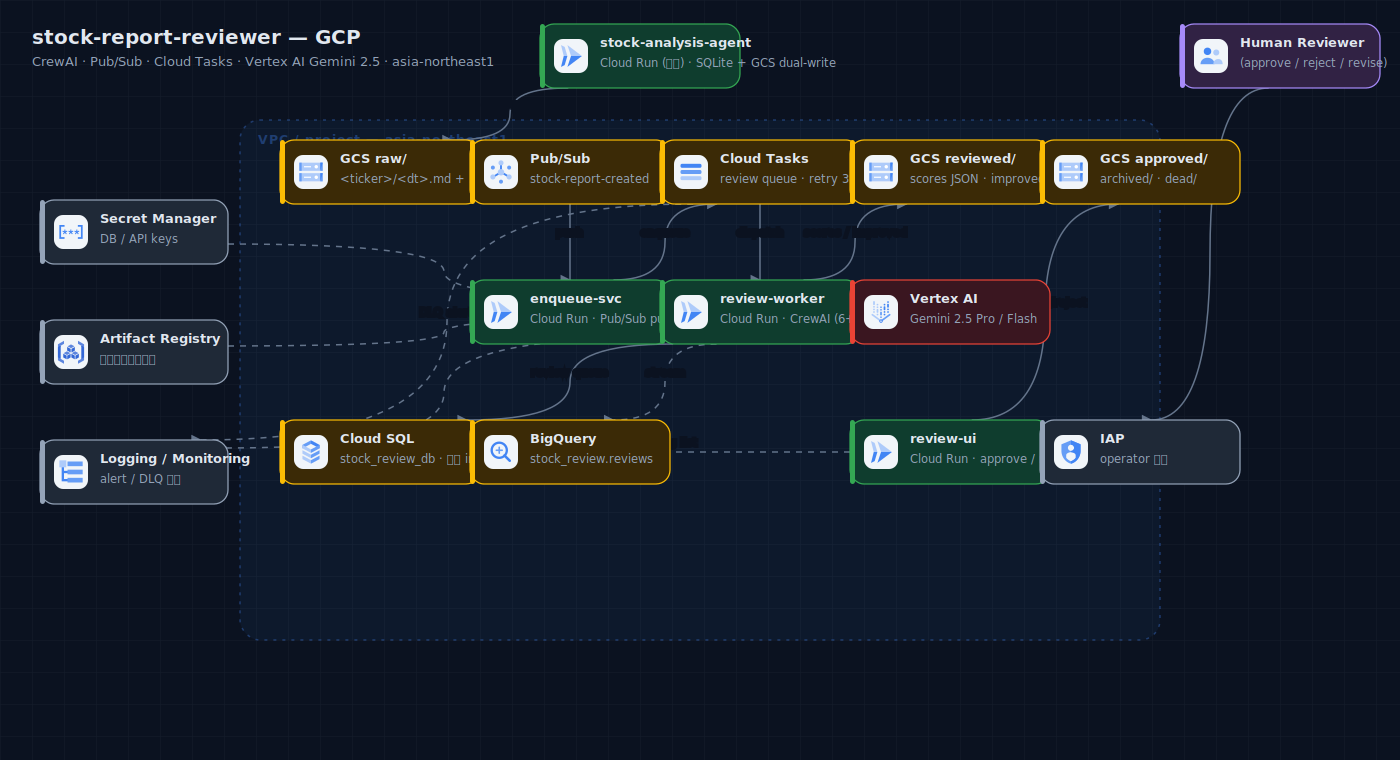
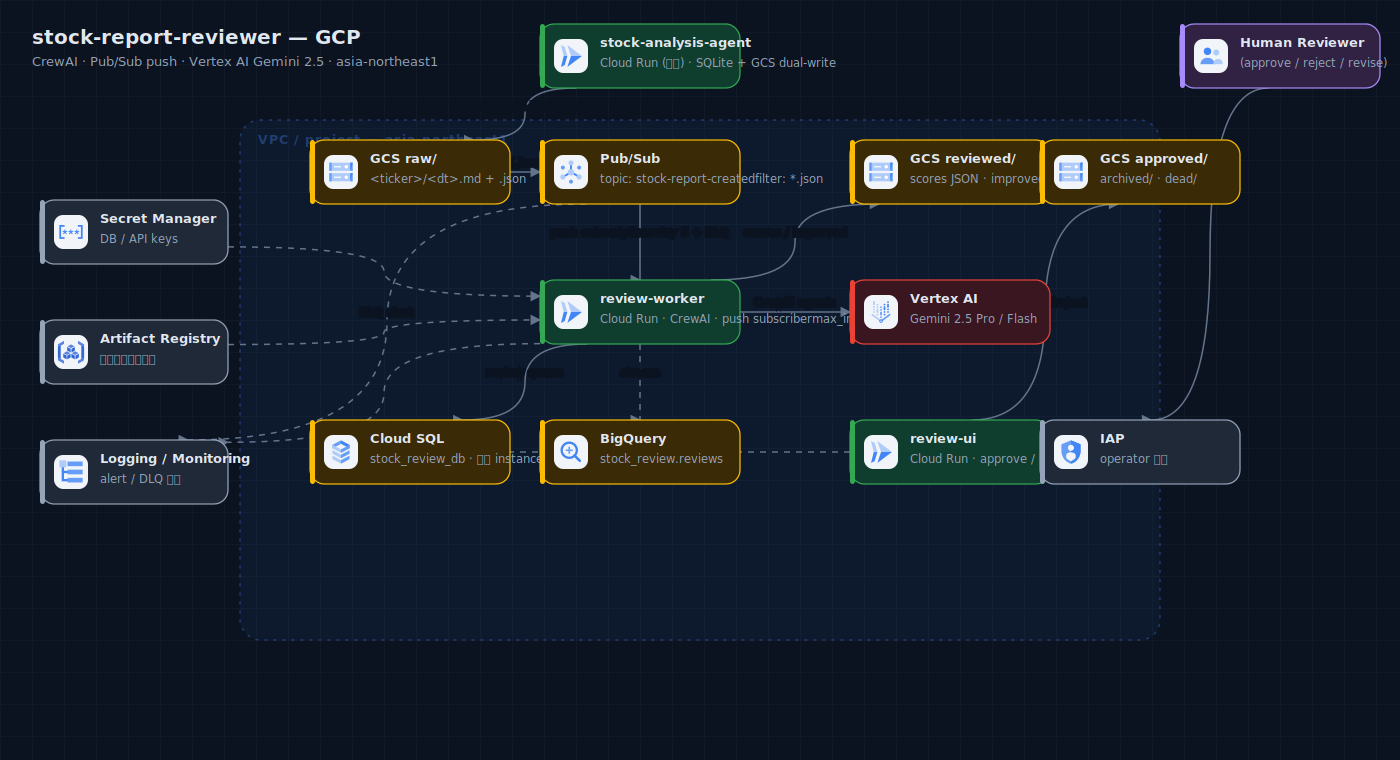
docs(0013): トリガ方式を案 B (Pub/Sub push 直接) に変更、案 A は併記
PROPOSAL-0013 のトリガ方式を Cloud Tasks ベース (案 A) から
Pub/Sub push subscription 直接 (案 B) に変更。両案を §3.6.1 に併記、
案 B 採用の判断根拠と、将来 rate limit 要件が出た場合の案 A への
切替条件を明記。

変更点:
- §1 Summary: Cloud Tasks → Pub/Sub push に
- §3.5 アーキテクチャ図 (ASCII): enqueue-svc / Cloud Tasks を削除、
  Pub/Sub push subscription + .json filter を反映
- §3.6.1 (新規): トリガ方式の選定セクションを追加
  - 案 A: GCS → Pub/Sub → Cloud Tasks (marker file)
  - 案 B: GCS → Pub/Sub push subscription (採用)
  - Rate limit は Phase 2 で後追い検討 (判断指標: llm_call.error_rate,
    review_lag)
- §3.7 Notes: idempotency と二重通知レース対策の説明を追加
- §3.8 Risks: Cloud Tasks DLQ → Pub/Sub DLQ topic
- §4.1 ディレクトリ: terraform/cloud_tasks.tf を削除
- §4.3 API: /internal/review の caller を Pub/Sub push に
- §4.5 Test Plan: E2E test も Pub/Sub 経路に
- §4.6 Migration: Cloud Tasks 言及を削除
- §5.3 Dependencies: Cloud Tasks を統合

GCP 構成図 (docs/diagrams/systems/stock-report-reviewer/) も同期:
- spec.gcp.mjs から enqueue / tasks ノードを削除
- pubsub → worker を push subscription 直接接続に
- gcp.svg / gcp.png / .tsx を再生成

diff --git a/docs/diagrams/systems/stock-report-reviewer/StockReportReviewerDiagram.tsx b/docs/diagrams/systems/stock-report-reviewer/StockReportReviewerDiagram.tsx
@@ -62,21 +62,22 @@ const VARIANTS = {
   <rect x="3" y="5" width="18" height="3.4" rx="1.2" fill="#4285f4"/>
   <rect x="3" y="10.3" width="18" height="3.4" rx="1.2" fill="#669df6"/>
   <rect x="3" y="15.6" width="18" height="3.4" rx="1.2" fill="#aecbfa"/>
-</symbol></defs><rect width="1400" height="760" fill="#0b1220"/><rect width="1400" height="760" fill="url(#grid)"/><text x="32" y="44" fill="#e2e8f0" font-size="20" font-weight="750">stock-report-reviewer — GCP</text><text x="32" y="66" fill="#94a3b8" font-size="13">CrewAI · Pub/Sub · Cloud Tasks · Vertex AI Gemini 2.5 · asia-northeast1</text><g><rect x="240" y="120" width="920" height="520" rx="20" fill="rgba(66,133,244,0.06)" stroke="rgba(66,133,244,0.35)" stroke-width="1.5" stroke-dasharray="3 6"/><text x="258" y="144" fill="rgba(66,133,244,0.35)" font-size="12.5" font-weight="700" letter-spacing="1">VPC / project — asia-northeast1</text></g><path d="M 568.2758620689656 88 Q 510 88 510 114 T 451.7241379310345 140" fill="none" stroke="#64748b" stroke-width="1.5" marker-end="url(#arrow)"/><text x="510" y="108" fill="#94a3b8" font-size="11" text-anchor="middle" paint-order="stroke" stroke="#0b1220" stroke-width="4">dual-write</text><path d="M 480 172 Q 475 172 475 172 T 470 172" fill="none" stroke="#64748b" stroke-width="1.5" marker-end="url(#arrow)"/><text x="475" y="166" fill="#94a3b8" font-size="11" text-anchor="middle" paint-order="stroke" stroke="#0b1220" stroke-width="4">notify</text><path d="M 570 204 Q 570 204 570 242 T 570 280" fill="none" stroke="#64748b" stroke-width="1.5" marker-end="url(#arrow)"/><text x="570" y="236" fill="#94a3b8" font-size="11" text-anchor="middle" paint-order="stroke" stroke="#0b1220" stroke-width="4">push</text><path d="M 613.4285714285714 280 Q 665 280 665 242 T 716.5714285714286 204" fill="none" stroke="#64748b" stroke-width="1.5" marker-end="url(#arrow)"/><text x="665" y="236" fill="#94a3b8" font-size="11" text-anchor="middle" paint-order="stroke" stroke="#0b1220" stroke-width="4">enqueue</text><path d="M 760 204 Q 760 204 760 242 T 760 280" fill="none" stroke="#64748b" stroke-width="1.5" marker-end="url(#arrow)"/><text x="760" y="236" fill="#94a3b8" font-size="11" text-anchor="middle" paint-order="stroke" stroke="#0b1220" stroke-width="4">dispatch</text><path d="M 860 312 Q 855 312 855 312 T 850 312" fill="none" stroke="#64748b" stroke-width="1.5" marker-end="url(#arrow)"/><text x="855" y="306" fill="#94a3b8" font-size="11" text-anchor="middle" paint-order="stroke" stroke="#0b1220" stroke-width="4">CrewAI agents</text><path d="M 803.4285714285714 280 Q 855 280 855 242 T 906.5714285714286 204" fill="none" stroke="#64748b" stroke-width="1.5" marker-end="url(#arrow)"/><text x="855" y="236" fill="#94a3b8" font-size="11" text-anchor="middle" paint-order="stroke" stroke="#0b1220" stroke-width="4">scores / improved</text><path d="M 673.1428571428571 344 Q 570 344 570 382 T 466.8571428571429 420" fill="none" stroke="#64748b" stroke-width="1.5" marker-end="url(#arrow)"/><text x="570" y="376" fill="#94a3b8" font-size="11" text-anchor="middle" paint-order="stroke" stroke="#0b1220" stroke-width="4">review queue</text><path d="M 716.5714285714286 344 Q 665 344 665 382 T 613.4285714285714 420" fill="none" stroke="#64748b" stroke-width="1.5" stroke-dasharray="6 6" marker-end="url(#arrow)"/><text x="665" y="376" fill="#94a3b8" font-size="11" text-anchor="middle" paint-order="stroke" stroke="#0b1220" stroke-width="4">stream</text><path d="M 1268.6868686868686 88 Q 1210 88 1210 254 T 1151.3131313131314 420" fill="none" stroke="#64748b" stroke-width="1.5" marker-end="url(#arrow)"/><path d="M 1040 452 Q 1045 452 1045 452 T 1050 452" fill="none" stroke="#64748b" stroke-width="1.5" marker-end="url(#arrow)"/><text x="1045" y="446" fill="#94a3b8" font-size="11" text-anchor="middle" paint-order="stroke" stroke="#0b1220" stroke-width="4">auth</text><path d="M 850 452 Q 665 452 665 452 T 480 452" fill="none" stroke="#64748b" stroke-width="1.5" stroke-dasharray="6 6" marker-end="url(#arrow)"/><text x="665" y="446" fill="#94a3b8" font-size="11" text-anchor="middle" paint-order="stroke" stroke="#0b1220" stroke-width="4">pending list</text><path d="M 971.7142857142857 420 Q 1045 420 1045 312 T 1118.2857142857142 204" fill="none" stroke="#64748b" stroke-width="1.5" marker-end="url(#arrow)"/><text x="1045" y="306" fill="#94a3b8" font-size="11" text-anchor="middle" paint-order="stroke" stroke="#0b1220" stroke-width="4">approve/reject</text><path d="M 228 244.01277955271564 Q 444 244.01277955271564 444 271.61661341853033 T 660 299.220447284345" fill="none" stroke="#64748b" stroke-width="1.5" stroke-dasharray="6 6" marker-end="url(#arrow)"/><path d="M 228 345.9936102236422 Q 444 345.9936102236422 444 332.19169329073486 T 660 318.3897763578275" fill="none" stroke="#64748b" stroke-width="1.5" stroke-dasharray="6 6" marker-end="url(#arrow)"/><path d="M 660 337.5591054313099 Q 444 337.5591054313099 444 392.76677316293933 T 228 447.9744408945687" fill="none" stroke="#64748b" stroke-width="1.5" stroke-dasharray="6 6" marker-end="url(#arrow)"/><path d="M 693.2266666666667 204 Q 447 204 447 322 T 200.77333333333334 440" fill="none" stroke="#64748b" stroke-width="1.5" stroke-dasharray="6 6" marker-end="url(#arrow)"/><text x="447" y="316" fill="#94a3b8" font-size="11" text-anchor="middle" paint-order="stroke" stroke="#0b1220" stroke-width="4">DLQ alert</text><g transform="translate(540,24)"><rect width="200" height="64" rx="14" fill="#0f3d2e" stroke="#34A853" stroke-width="1.25"/><rect width="5" height="64" rx="2.5" fill="#34A853"/><rect x="14" y="15" width="34" height="34" rx="9" fill="#f1f5f9"/><use href="#gcp-cloud_run" x="17" y="18" width="28" height="28"/><text x="60" y="23" fill="#e2e8f0" font-size="13" font-weight="650">stock-analysis-agent</text><text x="60" y="43" fill="#94a3b8" font-size="11.5">Cloud Run (既存) · SQLite + GCS dual-write</text></g>
+</symbol></defs><rect width="1400" height="760" fill="#0b1220"/><rect width="1400" height="760" fill="url(#grid)"/><text x="32" y="44" fill="#e2e8f0" font-size="20" font-weight="750">stock-report-reviewer — GCP</text><text x="32" y="66" fill="#94a3b8" font-size="13">CrewAI · Pub/Sub push · Vertex AI Gemini 2.5 · asia-northeast1</text><g><rect x="240" y="120" width="920" height="520" rx="20" fill="rgba(66,133,244,0.06)" stroke="rgba(66,133,244,0.35)" stroke-width="1.5" stroke-dasharray="3 6"/><text x="258" y="144" fill="rgba(66,133,244,0.35)" font-size="12.5" font-weight="700" letter-spacing="1">VPC / project — asia-northeast1</text></g><path d="M 576.551724137931 88 Q 525 88 525 114 T 473.44827586206895 140" fill="none" stroke="#64748b" stroke-width="1.5" marker-end="url(#arrow)"/><text x="525" y="108" fill="#94a3b8" font-size="11" text-anchor="middle" paint-order="stroke" stroke="#0b1220" stroke-width="4">dual-write (.md, .json)</text><path d="M 510 172 Q 525 172 525 172 T 540 172" fill="none" stroke="#64748b" stroke-width="1.5" marker-end="url(#arrow)"/><text x="525" y="166" fill="#94a3b8" font-size="11" text-anchor="middle" paint-order="stroke" stroke="#0b1220" stroke-width="4">notify (.json filter)</text><path d="M 640 204 Q 640 204 640 242 T 640 280" fill="none" stroke="#64748b" stroke-width="1.5" marker-end="url(#arrow)"/><text x="640" y="236" fill="#94a3b8" font-size="11" text-anchor="middle" paint-order="stroke" stroke="#0b1220" stroke-width="4">push subscription
+retry 5 + DLQ</text><path d="M 740 312 Q 795 312 795 312 T 850 312" fill="none" stroke="#64748b" stroke-width="1.5" marker-end="url(#arrow)"/><text x="795" y="306" fill="#94a3b8" font-size="11" text-anchor="middle" paint-order="stroke" stroke="#0b1220" stroke-width="4">CrewAI agents</text><path d="M 710.8571428571429 280 Q 795 280 795 242 T 879.1428571428571 204" fill="none" stroke="#64748b" stroke-width="1.5" marker-end="url(#arrow)"/><text x="795" y="236" fill="#94a3b8" font-size="11" text-anchor="middle" paint-order="stroke" stroke="#0b1220" stroke-width="4">scores / improved</text><path d="M 587.4285714285714 344 Q 525 344 525 382 T 462.57142857142856 420" fill="none" stroke="#64748b" stroke-width="1.5" marker-end="url(#arrow)"/><text x="525" y="376" fill="#94a3b8" font-size="11" text-anchor="middle" paint-order="stroke" stroke="#0b1220" stroke-width="4">review queue</text><path d="M 640 344 Q 640 344 640 382 T 640 420" fill="none" stroke="#64748b" stroke-width="1.5" stroke-dasharray="6 6" marker-end="url(#arrow)"/><text x="640" y="376" fill="#94a3b8" font-size="11" text-anchor="middle" paint-order="stroke" stroke="#0b1220" stroke-width="4">stream</text><path d="M 1268.6868686868686 88 Q 1210 88 1210 254 T 1151.3131313131314 420" fill="none" stroke="#64748b" stroke-width="1.5" marker-end="url(#arrow)"/><path d="M 1040 452 Q 1045 452 1045 452 T 1050 452" fill="none" stroke="#64748b" stroke-width="1.5" marker-end="url(#arrow)"/><text x="1045" y="446" fill="#94a3b8" font-size="11" text-anchor="middle" paint-order="stroke" stroke="#0b1220" stroke-width="4">auth</text><path d="M 850 452 Q 680 452 680 452 T 510 452" fill="none" stroke="#64748b" stroke-width="1.5" stroke-dasharray="6 6" marker-end="url(#arrow)"/><text x="680" y="446" fill="#94a3b8" font-size="11" text-anchor="middle" paint-order="stroke" stroke="#0b1220" stroke-width="4">pending list</text><path d="M 971.7142857142857 420 Q 1045 420 1045 312 T 1118.2857142857142 204" fill="none" stroke="#64748b" stroke-width="1.5" marker-end="url(#arrow)"/><text x="1045" y="306" fill="#94a3b8" font-size="11" text-anchor="middle" paint-order="stroke" stroke="#0b1220" stroke-width="4">approve/reject</text><path d="M 228 246.86166007905138 Q 384 246.86166007905138 384 271.52569169960475 T 540 296.1897233201581" fill="none" stroke="#64748b" stroke-width="1.5" stroke-dasharray="6 6" marker-end="url(#arrow)"/><path d="M 228 344.5691699604743 Q 384 344.5691699604743 384 332.2371541501976 T 540 319.90513833992094" fill="none" stroke="#64748b" stroke-width="1.5" stroke-dasharray="6 6" marker-end="url(#arrow)"/><path d="M 540 343.6205533596838 Q 384 343.6205533596838 384 392.9486166007905 T 228 442.27667984189725" fill="none" stroke="#64748b" stroke-width="1.5" stroke-dasharray="6 6" marker-end="url(#arrow)"/><path d="M 586.0266666666666 204 Q 387 204 387 322 T 187.97333333333333 440" fill="none" stroke="#64748b" stroke-width="1.5" stroke-dasharray="6 6" marker-end="url(#arrow)"/><text x="387" y="316" fill="#94a3b8" font-size="11" text-anchor="middle" paint-order="stroke" stroke="#0b1220" stroke-width="4">DLQ alert</text><g transform="translate(540,24)"><rect width="200" height="64" rx="14" fill="#0f3d2e" stroke="#34A853" stroke-width="1.25"/><rect width="5" height="64" rx="2.5" fill="#34A853"/><rect x="14" y="15" width="34" height="34" rx="9" fill="#f1f5f9"/><use href="#gcp-cloud_run" x="17" y="18" width="28" height="28"/><text x="60" y="23" fill="#e2e8f0" font-size="13" font-weight="650">stock-analysis-agent</text><text x="60" y="43" fill="#94a3b8" font-size="11.5">Cloud Run (既存) · SQLite + GCS dual-write</text></g>
 <g transform="translate(1180,24)"><rect width="200" height="64" rx="14" fill="#312244" stroke="#a78bfa" stroke-width="1.25"/><rect width="5" height="64" rx="2.5" fill="#a78bfa"/><rect x="14" y="15" width="34" height="34" rx="9" fill="#f1f5f9"/><use href="#gcp-users" x="17" y="18" width="28" height="28"/><text x="60" y="23" fill="#e2e8f0" font-size="13" font-weight="650">Human Reviewer</text><text x="60" y="43" fill="#94a3b8" font-size="11.5">(approve / reject / revise)</text></g>
 <g transform="translate(40,200)"><rect width="188" height="64" rx="14" fill="#1f2937" stroke="#94a3b8" stroke-width="1.25"/><rect width="5" height="64" rx="2.5" fill="#94a3b8"/><rect x="14" y="15" width="34" height="34" rx="9" fill="#f1f5f9"/><use href="#gcp-secret_manager" x="17" y="18" width="28" height="28"/><text x="60" y="23" fill="#e2e8f0" font-size="13" font-weight="650">Secret Manager</text><text x="60" y="43" fill="#94a3b8" font-size="11.5">DB / API keys</text></g>
 <g transform="translate(40,320)"><rect width="188" height="64" rx="14" fill="#1f2937" stroke="#94a3b8" stroke-width="1.25"/><rect width="5" height="64" rx="2.5" fill="#94a3b8"/><rect x="14" y="15" width="34" height="34" rx="9" fill="#f1f5f9"/><use href="#gcp-artifact_registry" x="17" y="18" width="28" height="28"/><text x="60" y="23" fill="#e2e8f0" font-size="13" font-weight="650">Artifact Registry</text><text x="60" y="43" fill="#94a3b8" font-size="11.5">コンテナイメージ</text></g>
 <g transform="translate(40,440)"><rect width="188" height="64" rx="14" fill="#1f2937" stroke="#94a3b8" stroke-width="1.25"/><rect width="5" height="64" rx="2.5" fill="#94a3b8"/><rect x="14" y="15" width="34" height="34" rx="9" fill="#f1f5f9"/><use href="#gcp-cloud_logging" x="17" y="18" width="28" height="28"/><text x="60" y="23" fill="#e2e8f0" font-size="13" font-weight="650">Logging / Monitoring</text><text x="60" y="43" fill="#94a3b8" font-size="11.5">alert / DLQ 通知</text></g>
-<g transform="translate(280,140)"><rect width="200" height="64" rx="14" fill="#3b2a06" stroke="#FBBC04" stroke-width="1.25"/><rect width="5" height="64" rx="2.5" fill="#FBBC04"/><rect x="14" y="15" width="34" height="34" rx="9" fill="#f1f5f9"/><use href="#gcp-cloud_storage" x="17" y="18" width="28" height="28"/><text x="60" y="23" fill="#e2e8f0" font-size="13" font-weight="650">GCS raw/</text><text x="60" y="43" fill="#94a3b8" font-size="11.5">&lt;ticker>/&lt;dt>.md + .json</text></g>
-<g transform="translate(470,140)"><rect width="200" height="64" rx="14" fill="#3b2a06" stroke="#FBBC04" stroke-width="1.25"/><rect width="5" height="64" rx="2.5" fill="#FBBC04"/><rect x="14" y="15" width="34" height="34" rx="9" fill="#f1f5f9"/><use href="#gcp-pubsub" x="17" y="18" width="28" height="28"/><text x="60" y="23" fill="#e2e8f0" font-size="13" font-weight="650">Pub/Sub</text><text x="60" y="43" fill="#94a3b8" font-size="11.5">stock-report-created</text></g>
-<g transform="translate(660,140)"><rect width="200" height="64" rx="14" fill="#3b2a06" stroke="#FBBC04" stroke-width="1.25"/><rect width="5" height="64" rx="2.5" fill="#FBBC04"/><rect x="14" y="15" width="34" height="34" rx="9" fill="#f1f5f9"/><use href="#x-cloudtasks" x="17" y="18" width="28" height="28"/><text x="60" y="23" fill="#e2e8f0" font-size="13" font-weight="650">Cloud Tasks</text><text x="60" y="43" fill="#94a3b8" font-size="11.5">review queue · retry 3 / DLQ</text></g>
+<g transform="translate(310,140)"><rect width="200" height="64" rx="14" fill="#3b2a06" stroke="#FBBC04" stroke-width="1.25"/><rect width="5" height="64" rx="2.5" fill="#FBBC04"/><rect x="14" y="15" width="34" height="34" rx="9" fill="#f1f5f9"/><use href="#gcp-cloud_storage" x="17" y="18" width="28" height="28"/><text x="60" y="23" fill="#e2e8f0" font-size="13" font-weight="650">GCS raw/</text><text x="60" y="43" fill="#94a3b8" font-size="11.5">&lt;ticker>/&lt;dt>.md + .json</text></g>
+<g transform="translate(540,140)"><rect width="200" height="64" rx="14" fill="#3b2a06" stroke="#FBBC04" stroke-width="1.25"/><rect width="5" height="64" rx="2.5" fill="#FBBC04"/><rect x="14" y="15" width="34" height="34" rx="9" fill="#f1f5f9"/><use href="#gcp-pubsub" x="17" y="18" width="28" height="28"/><text x="60" y="23" fill="#e2e8f0" font-size="13" font-weight="650">Pub/Sub</text><text x="60" y="43" fill="#94a3b8" font-size="11.5">topic: stock-report-created
+filter: *.json</text></g>
 <g transform="translate(850,140)"><rect width="200" height="64" rx="14" fill="#3b2a06" stroke="#FBBC04" stroke-width="1.25"/><rect width="5" height="64" rx="2.5" fill="#FBBC04"/><rect x="14" y="15" width="34" height="34" rx="9" fill="#f1f5f9"/><use href="#gcp-cloud_storage" x="17" y="18" width="28" height="28"/><text x="60" y="23" fill="#e2e8f0" font-size="13" font-weight="650">GCS reviewed/</text><text x="60" y="43" fill="#94a3b8" font-size="11.5">scores JSON · improved/</text></g>
 <g transform="translate(1040,140)"><rect width="200" height="64" rx="14" fill="#3b2a06" stroke="#FBBC04" stroke-width="1.25"/><rect width="5" height="64" rx="2.5" fill="#FBBC04"/><rect x="14" y="15" width="34" height="34" rx="9" fill="#f1f5f9"/><use href="#gcp-cloud_storage" x="17" y="18" width="28" height="28"/><text x="60" y="23" fill="#e2e8f0" font-size="13" font-weight="650">GCS approved/</text><text x="60" y="43" fill="#94a3b8" font-size="11.5">archived/ · dead/</text></g>
-<g transform="translate(470,280)"><rect width="200" height="64" rx="14" fill="#0f3d2e" stroke="#34A853" stroke-width="1.25"/><rect width="5" height="64" rx="2.5" fill="#34A853"/><rect x="14" y="15" width="34" height="34" rx="9" fill="#f1f5f9"/><use href="#gcp-cloud_run" x="17" y="18" width="28" height="28"/><text x="60" y="23" fill="#e2e8f0" font-size="13" font-weight="650">enqueue-svc</text><text x="60" y="43" fill="#94a3b8" font-size="11.5">Cloud Run · Pub/Sub push 受信</text></g>
-<g transform="translate(660,280)"><rect width="200" height="64" rx="14" fill="#0f3d2e" stroke="#34A853" stroke-width="1.25"/><rect width="5" height="64" rx="2.5" fill="#34A853"/><rect x="14" y="15" width="34" height="34" rx="9" fill="#f1f5f9"/><use href="#gcp-cloud_run" x="17" y="18" width="28" height="28"/><text x="60" y="23" fill="#e2e8f0" font-size="13" font-weight="650">review-worker</text><text x="60" y="43" fill="#94a3b8" font-size="11.5">Cloud Run · CrewAI (6+2 agent)</text></g>
+<g transform="translate(540,280)"><rect width="200" height="64" rx="14" fill="#0f3d2e" stroke="#34A853" stroke-width="1.25"/><rect width="5" height="64" rx="2.5" fill="#34A853"/><rect x="14" y="15" width="34" height="34" rx="9" fill="#f1f5f9"/><use href="#gcp-cloud_run" x="17" y="18" width="28" height="28"/><text x="60" y="23" fill="#e2e8f0" font-size="13" font-weight="650">review-worker</text><text x="60" y="43" fill="#94a3b8" font-size="11.5">Cloud Run · CrewAI · push subscriber
+max_instances=3</text></g>
 <g transform="translate(850,280)"><rect width="200" height="64" rx="14" fill="#3a1620" stroke="#EA4335" stroke-width="1.25"/><rect width="5" height="64" rx="2.5" fill="#EA4335"/><rect x="14" y="15" width="34" height="34" rx="9" fill="#f1f5f9"/><use href="#gcp-vertexai" x="17" y="18" width="28" height="28"/><text x="60" y="23" fill="#e2e8f0" font-size="13" font-weight="650">Vertex AI</text><text x="60" y="43" fill="#94a3b8" font-size="11.5">Gemini 2.5 Pro / Flash</text></g>
-<g transform="translate(280,420)"><rect width="200" height="64" rx="14" fill="#3b2a06" stroke="#FBBC04" stroke-width="1.25"/><rect width="5" height="64" rx="2.5" fill="#FBBC04"/><rect x="14" y="15" width="34" height="34" rx="9" fill="#f1f5f9"/><use href="#gcp-cloud_sql" x="17" y="18" width="28" height="28"/><text x="60" y="23" fill="#e2e8f0" font-size="13" font-weight="650">Cloud SQL</text><text x="60" y="43" fill="#94a3b8" font-size="11.5">stock_review_db · 共有 instance</text></g>
-<g transform="translate(470,420)"><rect width="200" height="64" rx="14" fill="#3b2a06" stroke="#FBBC04" stroke-width="1.25"/><rect width="5" height="64" rx="2.5" fill="#FBBC04"/><rect x="14" y="15" width="34" height="34" rx="9" fill="#f1f5f9"/><use href="#x-bigquery" x="17" y="18" width="28" height="28"/><text x="60" y="23" fill="#e2e8f0" font-size="13" font-weight="650">BigQuery</text><text x="60" y="43" fill="#94a3b8" font-size="11.5">stock_review.reviews</text></g>
+<g transform="translate(310,420)"><rect width="200" height="64" rx="14" fill="#3b2a06" stroke="#FBBC04" stroke-width="1.25"/><rect width="5" height="64" rx="2.5" fill="#FBBC04"/><rect x="14" y="15" width="34" height="34" rx="9" fill="#f1f5f9"/><use href="#gcp-cloud_sql" x="17" y="18" width="28" height="28"/><text x="60" y="23" fill="#e2e8f0" font-size="13" font-weight="650">Cloud SQL</text><text x="60" y="43" fill="#94a3b8" font-size="11.5">stock_review_db · 共有 instance</text></g>
+<g transform="translate(540,420)"><rect width="200" height="64" rx="14" fill="#3b2a06" stroke="#FBBC04" stroke-width="1.25"/><rect width="5" height="64" rx="2.5" fill="#FBBC04"/><rect x="14" y="15" width="34" height="34" rx="9" fill="#f1f5f9"/><use href="#x-bigquery" x="17" y="18" width="28" height="28"/><text x="60" y="23" fill="#e2e8f0" font-size="13" font-weight="650">BigQuery</text><text x="60" y="43" fill="#94a3b8" font-size="11.5">stock_review.reviews</text></g>
 <g transform="translate(850,420)"><rect width="200" height="64" rx="14" fill="#0f3d2e" stroke="#34A853" stroke-width="1.25"/><rect width="5" height="64" rx="2.5" fill="#34A853"/><rect x="14" y="15" width="34" height="34" rx="9" fill="#f1f5f9"/><use href="#gcp-cloud_run" x="17" y="18" width="28" height="28"/><text x="60" y="23" fill="#e2e8f0" font-size="13" font-weight="650">review-ui</text><text x="60" y="43" fill="#94a3b8" font-size="11.5">Cloud Run · approve / reject</text></g>
 <g transform="translate(1040,420)"><rect width="200" height="64" rx="14" fill="#1f2937" stroke="#94a3b8" stroke-width="1.25"/><rect width="5" height="64" rx="2.5" fill="#94a3b8"/><rect x="14" y="15" width="34" height="34" rx="9" fill="#f1f5f9"/><use href="#gcp-identity_and_access_management" x="17" y="18" width="28" height="28"/><text x="60" y="23" fill="#e2e8f0" font-size="13" font-weight="650">IAP</text><text x="60" y="43" fill="#94a3b8" font-size="11.5">operator 認証</text></g></svg>` },
 } as const;

diff --git a/docs/PROPOSALS/0013-stock-report-review-pipeline.md b/docs/PROPOSALS/0013-stock-report-review-pipeline.md
@@ -17,7 +17,7 @@
 
 `stock-analysis-agent` が生成する株価分析レポートに対し、**8 観点 × 5 段階スコアリング** で品質評価する **CrewAI ベースのマルチエージェント review パイプライン** を新設する。
 
-トリガは GCS への新規レポート配置で、Cloud Tasks 経由で Cloud Run の review service が起動。CrewAI が 6 専門 reviewer + 統括 manager + 改稿 improver の構成で並列レビュー、スコア + must_fix リストを生成する。スコアに応じて **(a) 自動 publish / (b) AI 改稿 → 人間レビュー / (c) 即人間レビュー** に分岐し、Web UI で承認ワークフローを実施する。
+トリガは GCS への新規レポート配置で、**Pub/Sub push subscription** で Cloud Run の review service に直接 dispatch する (案 B 採用、§7 参照)。CrewAI が 6 専門 reviewer + 統括 manager + 改稿 improver の構成で並列レビュー、スコア + must_fix リストを生成する。スコアに応じて **(a) 自動 publish / (b) AI 改稿 → 人間レビュー / (c) 即人間レビュー** に分岐し、Web UI で承認ワークフローを実施する。
 
 LLM は **Gemini 2.5 (Pro / Flash) on Vertex AI** で統一。**学習目的** のため厳密なコンプライアンスは追求せず、表現適切性 (推奨表現回避 / 断定回避 / 免責) のチェックレベルに留める。
 
@@ -225,25 +225,28 @@ def verdict(scores: dict[str, int], must_fix: list[Issue]) -> str:
 
 ```
 [stock-analysis-agent (既存)]
-   分析完了 → SQLite に保存 (既存) + GCS に write (新規)
-                  ├─ gs://stock-reports/raw/<ticker>/<dt>.md      (本文 Markdown)
-                  └─ gs://stock-reports/raw/<ticker>/<dt>.json    (構造化データ)
+   分析完了 → SQLite に保存 (既存) + GCS に dual-write (新規)
+                  ├─ gs://stock-reports/raw/<ticker>/<dt>.md      (本文 Markdown、1番目)
+                  └─ gs://stock-reports/raw/<ticker>/<dt>.json    (構造化データ、2番目 = trigger)
                               │
                               ▼
               [GCS Object Notification]
               Pub/Sub topic: stock-report-created
+              filter: attributes.objectId LIKE '%.json'
+              (.md の通知は無視。.json は .md の後に書く順序保証で
+               レース回避)
                               │
                               ▼
-              [Cloud Run service: enqueue]
-              Pub/Sub push → Cloud Tasks
-                              │
-                              ▼
-              Cloud Tasks queue: stock-report-review
-              (max retry 3、DLQ: gs://dead/、rate: 5 req/s)
+              [Pub/Sub push subscription]
+              push endpoint: review-worker /internal/review
+              retry: 5 回 + exponential backoff (Pub/Sub native)
+              DLQ topic: stock-report-review-dlq
+              → subscription で GCS dead/ にも sink
                               │
                               ▼
               [Cloud Run service: review-worker]
               POST /internal/review { gcs_uri, ticker, dt }
+              max_instances=3 (Vertex AI quota の暫定保護、§7 参照)
                   │
                   ├── idempotency check (既に reviewed/ にあれば skip)
                   │
@@ -326,12 +329,85 @@ def _save_to_gcs(bucket, ticker, report_id, report_data):
 - `STOCK_REPORTS_GCS_BUCKET` — 未設定なら GCS 書き出し無効 (既存挙動)
 - `STOCK_REPORTS_GCS_PREFIX` — 既定 `raw/`
 
+### 3.6.1 トリガ方式の選定 (案 A vs 案 B、**案 B 採用**)
+
+GCS への新規レポート配置を review pipeline に流す方式として、2 案を検討した。
+
+#### 案 A: GCS → Pub/Sub → Cloud Tasks → review-worker (marker file 併用)
+
+```
+stock-analysis-agent → GCS:
+   raw/<ticker>/<dt>.md
+   raw/<ticker>/<dt>.json
+   raw/<ticker>/<dt>.ready   ← 空 marker file (両ファイル書き完了後に書く)
+        ↓
+   Pub/Sub (filter: .ready のみ)
+        ↓
+   enqueue-svc (Pub/Sub push 受信、Cloud Tasks にコピー)
+        ↓
+   Cloud Tasks queue (rate limit 5 req/s、retry 3、DLQ)
+        ↓
+   review-worker
+```
+
+メリット:
+- **Queue 単位の rate limit** が Cloud Tasks に設定可 (例: `--max-dispatches-per-second=5`)
+- 並列度上限を `--max-concurrent-dispatches=10` で明示制御
+- task lifetime 最大 30 日 / queue 内最大 1M タスク (個人運営規模では十分以上)
+- DLQ や retry policy が task 単位で柔軟
+
+デメリット:
+- コンポーネント増 (enqueue-svc + Cloud Tasks queue)
+- Pub/Sub 自身も retry/DLQ を持つため、二重キューで責務重複感
+- marker file 書き込みが GCS 1 件増える (微小)
+
+#### 案 B: GCS → Pub/Sub push subscription → review-worker (**採用**)
+
+```
+stock-analysis-agent → GCS:
+   raw/<ticker>/<dt>.md       (1番目)
+   raw/<ticker>/<dt>.json     (2番目、書き順を保証)
+        ↓
+   Pub/Sub (filter: attributes.objectId LIKE '%.json')
+        ↓ push subscription (OIDC 認証付き)
+   review-worker /internal/review
+```
+
+メリット:
+- **コンポーネント 2 つ削減** (enqueue-svc + Cloud Tasks queue)
+- Pub/Sub 自身が retry (最大 5 回 + 指数 backoff) と DLQ topic を持つので機能的に十分
+- 二重通知レースは subscription filter (`.json` 末尾のみ) で吸収
+- 個人運営 200 レポート/日の規模では Cloud Tasks の機能は overkill
+
+デメリット:
+- **per-queue の細かい rate limit が効かせにくい** (Pub/Sub subscription には dispatch 単位の rate limit がない)
+- Cloud Run の `max_instances` で代用するが、これは「最大並列数」であり「秒あたり dispatch 数」ではない
+
+#### 採用判断
+
+**案 B (Pub/Sub push 直接) を Phase 1 で採用**。理由:
+
+1. 個人運営の 200 レポート/日では Cloud Tasks の rate limit 機能が必須でない
+2. CrewAI 1 サイクル = 30〜90 秒なので、Cloud Run `max_instances=3` でも実効スループット 60〜180 req/分 ≒ Vertex AI quota 内
+3. コンポーネント数を最小化することで運用・debug を簡素化
+
+#### Rate limit の後追い検討 (Phase 2)
+
+以下が観測された場合、案 A (Cloud Tasks 再導入) を別 PR で検討する:
+
+- Vertex AI Gemini 429 が日次で 5% 超
+- 一過性のレポート集中 (例: 朝市場開始時に 50 件同時) で review が捌けない
+- per-ticker / per-user の優先度制御が要件化
+
+判断指標は §5.1 Monitoring で計測する `llm_call.error_rate` と `review_lag` の 2 つ。
+
 ### 3.7 Notes / Constraints / Caveats
 
 - **`stock-analysis-agent` 本体は Claude Opus 4.6 を継続**: 既存運用への影響を避け、review 側だけ Gemini に統一
-- **idempotency**: GCS object の SHA256 を review_id にし、同じ hash は再実行スキップ
+- **idempotency**: GCS object の SHA256 を review_id にし、同じ hash は再実行スキップ。Pub/Sub の at-least-once 配信 (同一メッセージが複数回 push される可能性) も同 hash check で吸収
+- **二重通知レース対策**: stock-analysis-agent は `.md` → `.json` の順で書き、Pub/Sub subscription は `attributes.objectId LIKE '%.json'` filter で `.json` の通知のみを review トリガとする (案 B、§3.6.1 参照)
 - **冗長 review の抑制**: 同銘柄・同日に複数レポートがあっても、最新の 1 つだけ review (古い方は archived)
-- **失敗時の DLQ**: Cloud Tasks 3 リトライ後 → `gs://stock-reports/dead/<ticker>/<dt>.json` に error 情報退避 + Slack 通知
+- **失敗時の DLQ**: Pub/Sub subscription の retry 5 回後 → DLQ topic `stock-report-review-dlq` に転送 → そこから GCS `gs://stock-reports/dead/<ticker>/<dt>.json` に sink + Slack 通知
 - **Cost guard**: per-day budget (¥500/day) を超えると enqueue 停止、人手承認で再開
 - **モデル選択の根拠**: Gemini 2.5 Pro は Claude Sonnet 4.6 と同等 reasoning、Flash は機械的タスクで十分。Gemini は Vertex AI native で IAM / Workload Identity が綺麗、analytics-platform との integration も既存
 - **CrewAI version pin**: 最新を採用するが `uv.lock` で pin。breaking change を CI で週次検知
@@ -344,7 +420,7 @@ def _save_to_gcs(bucket, ticker, report_id, report_data):
 | review コスト爆発 | Medium | per-day budget cap、Flash 主体のモデル選定、prompt caching |
 | 数値検証の false positive (Fact Checker 過剰) | Medium | tolerance 設定 (相対誤差 1% allow)、yfinance キャッシュタイミング考慮 |
 | Gemini の判定揺らぎ | Medium | rubric を system prompt に固定、temperature=0、reviewer 出力に JSON schema 強制 |
-| Cloud Tasks の DLQ で気付かない | Medium | DLQ 投入時に Slack / LINE 通知、`gs://dead/` を週次棚卸し |
+| Pub/Sub DLQ topic で気付かない | Medium | DLQ topic から GCS `gs://dead/` への sink subscription を張り、新規 object で Slack / LINE 通知、`gs://dead/` を週次棚卸し |
 | 人間レビューが滞留 (1 人運営) | Low | UI に「直近 7 日承認なし → notification」、auto_publish 範囲を Phase 2 で拡張 |
 | 改稿で論調が変わって元の意図と異なる | Medium | improver の system prompt に「原文の論調を維持し、must_fix のみ修正」を明記。diff を UI で見せて差し戻し可 |
 | Vertex AI Gemini の quota / 429 | Low | retry + backoff、region は us-central1 (高 quota) |
@@ -363,8 +439,7 @@ stock-report-reviewer/                         ← 新規エージェント
 ├── Dockerfile
 ├── cloudbuild.yaml
 ├── terraform/
-│   ├── pubsub.tf                              ← GCS notification → Pub/Sub
-│   ├── cloud_tasks.tf
+│   ├── pubsub.tf                              ← GCS notification + push subscription + DLQ topic
 │   ├── cloud_run.tf                           ← review-worker + review-ui (2 services)
 │   ├── cloudsql.tf                            ← 既存共有 instance に review DB 追加
 │   ├── secrets.tf
@@ -464,7 +539,7 @@ ORDER BY avg_score DESC
 ### 4.3 API
 
 `review-worker` (Cloud Run):
-- `POST /internal/review` — Cloud Tasks から呼ばれる、`{gcs_uri, ticker, dt, report_id}` を受信、CrewAI 起動
+- `POST /internal/review` — Pub/Sub push subscription から呼ばれる (envelope は Pub/Sub の `PubsubMessage` 形式)。`{gcs_uri, ticker, dt, report_id}` を抽出、CrewAI 起動。Pub/Sub の OIDC 認証 + audience 検証必須
 - `GET /healthz`
 
 `review-ui` (Cloud Run、IAP):
@@ -543,7 +618,7 @@ result = crew.kickoff(inputs={"report_markdown": ..., "report_json": ...})
     - GCS dual-write の `_save_to_gcs` モック (gcsfs)
     - idempotency: 同 hash で skip されること
 - **Integration**:
-    - Pub/Sub → Cloud Tasks → /internal/review の E2E (mock CrewAI)
+    - GCS event → Pub/Sub push → /internal/review の E2E (mock CrewAI)、`.json` filter が効くこと
     - CrewAI を実 Vertex AI Gemini で 1 サンプル走らせて scores の formatting 妥当性
 - **Manual / E2E**:
     - 故意に hallucination 入りレポートを投入 → factual_accuracy=1 が出ること
@@ -555,7 +630,7 @@ result = crew.kickoff(inputs={"report_markdown": ..., "report_json": ...})
 ### 4.6 Migration / Rollback
 
 - 新規 system のためマイグレーション最小。`stock-analysis-agent` への変更は `STOCK_REPORTS_GCS_BUCKET` env で opt-in (未設定なら既存挙動継続)
-- ロールバック: `STOCK_REPORTS_GCS_BUCKET` を unset、`stock-report-reviewer` の Cloud Run / Cloud Tasks を terraform destroy。Cloud SQL の `stock_review_db` は `deletion_policy = ABANDON` のため共有 instance に残る (手動 DROP で削除可)
+- ロールバック: `STOCK_REPORTS_GCS_BUCKET` を unset、`stock-report-reviewer` の Cloud Run / Pub/Sub topic + subscription を terraform destroy。Cloud SQL の `stock_review_db` は `deletion_policy = ABANDON` のため共有 instance に残る (手動 DROP で削除可)
 
 ### 4.7 Feature Enablement
 
@@ -600,8 +675,7 @@ result = crew.kickoff(inputs={"report_markdown": ..., "report_json": ...})
 |---|---|
 | Vertex AI Gemini 2.5 (Pro / Flash) | 全 reviewer + manager + improver |
 | Cloud Run | review-worker / review-ui |
-| Cloud Tasks | 非同期 dispatch |
-| Pub/Sub | GCS notification 受信 |
+| Pub/Sub | GCS notification 受信 + push subscription で review-worker に dispatch + DLQ topic |
 | GCS | レポート保管 (`raw/`, `reviewed/`, `improved/`, `approved/`, `archived/`, `dead/`) |
 | Cloud SQL (driving-license-bot 共有 instance) | `stock_review_db` |
 | BigQuery | scores 蓄積・分析 |
